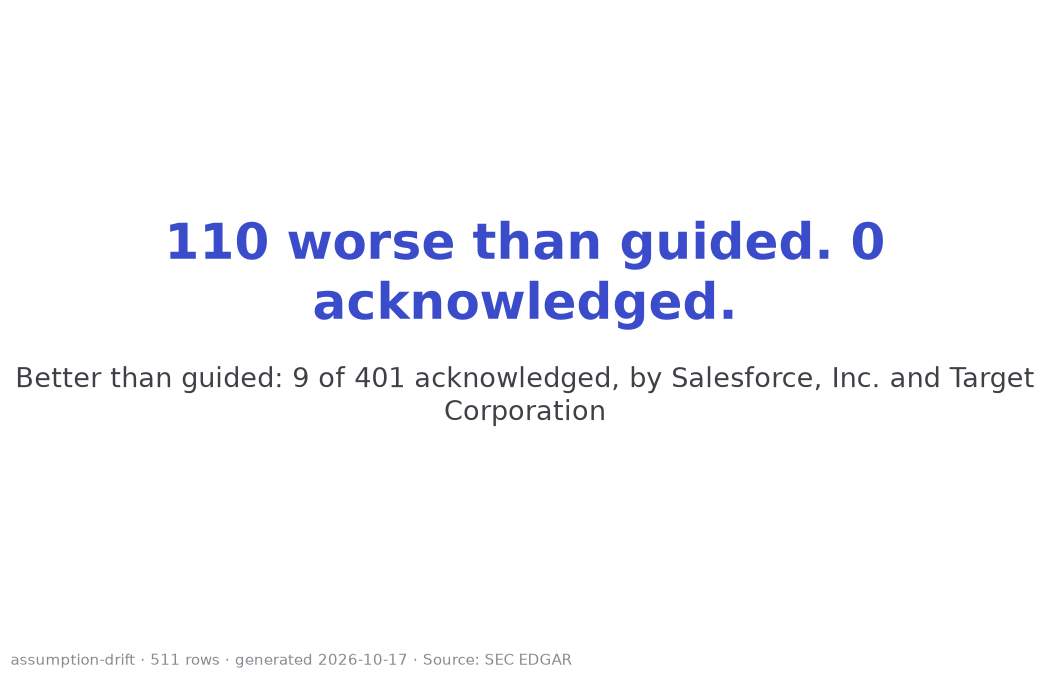
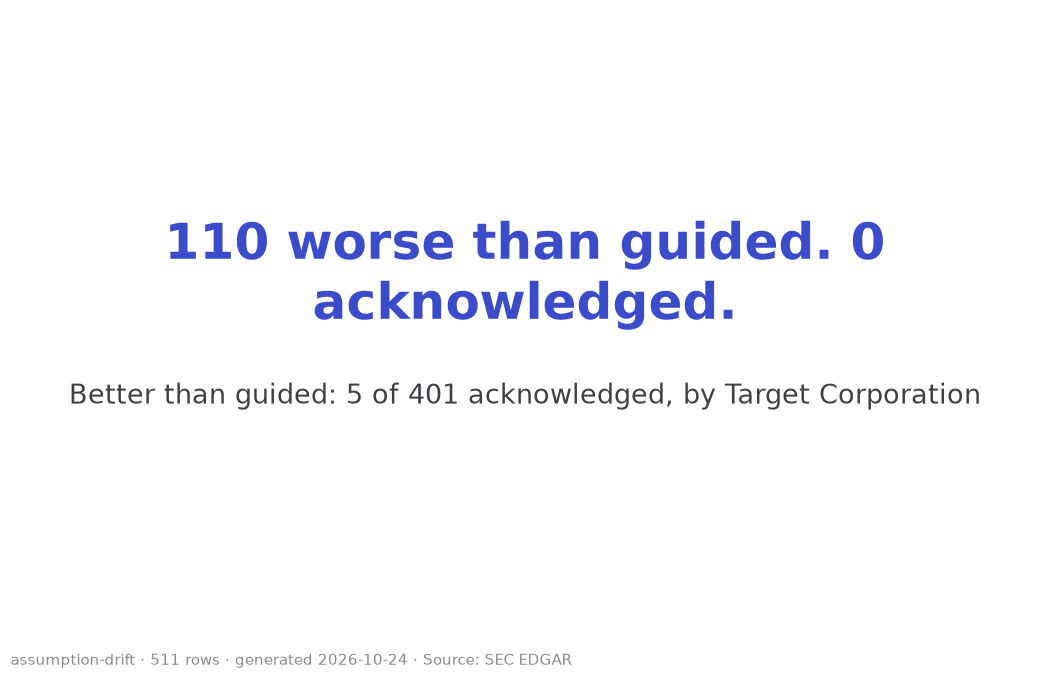
Acknowledgements: four false matches cleared after hand review (3 Target FY2023 rows carried the Q4 sentence, 1 Salesforce generic); 5 remain, all Target FY2023 EPS; period and figure guard on acknowledgement match; BACKLOG 28

Changed region(s): [[0.0, 0.5289, 0.9752, 0.6222], [0.3657, 0.9644, 0.3962, 0.9956]]

diff --git a/space/index.html b/space/index.html
@@ -110,7 +110,7 @@ html.js section.company{display:block}
 <p class="label-top">assumption-drift</p>
 <h1>110 worse than guided. 0 acknowledged.</h1>
 <p class="magnitude">Of the 110 worse-side misses, 79 are more than 1% beyond the guide and 52 more than 5%. None was acknowledged.</p>
-<p class="dateline">1,309 guidance statements, 15 companies, filings Jan 2019 to Oct 2026, generated 2026-10-17</p>
+<p class="dateline">1,309 guidance statements, 15 companies, filings Jan 2019 to Oct 2026, generated 2026-10-24</p>
 <p class="dateline">Filings processed through 2026-10-15. 10 rows pending review.</p>
 <p class="dateline">Links open in a new tab. The page runs inside a Hugging Face frame, so a link that seems not to respond has opened behind it.</p>
 </header>
@@ -468,7 +468,7 @@ html.js section.company{display:block}
 <circle class="dot" cx="221.0" cy="317.2" r="4" fill="#3B4CCA" fill-opacity="0.7" data-ticker="TGT" data-metric="EPS non-GAAP" data-period="Q1 FY2023" data-guided="$1.5 to $1.9" data-reported="$2.05" data-days="78" data-ack="" data-card="row-01GTAN3800BCH7A67TPM65N0AQ"/>
 <circle class="dot" cx="221.0" cy="301.4" r="4" fill="#3B4CCA" fill-opacity="0.7" data-ticker="TGT" data-metric="operating margin GAAP" data-period="Q1 FY2023" data-guided="4% to 5%" data-reported="5.2%" data-days="78" data-ack="" data-card="row-01GTAN3800J11PV4X345TVJTA4"/>
 <circle class="dot" cx="221.0" cy="296.6" r="4" fill="#3B4CCA" fill-opacity="0.7" data-ticker="TGT" data-metric="EPS GAAP" data-period="Q1 FY2023" data-guided="$1.5 to $1.9" data-reported="$2.05" data-days="78" data-ack="" data-card="row-01GTAN3800PVN1BBVG283J98ZE"/>
-<circle class="dot" cx="487.6" cy="86.4" r="4" fill="#3f3f46" fill-opacity="0.7" data-ticker="TGT" data-metric="EPS GAAP" data-period="FY2023" data-guided="$7.75 to $8.75" data-reported="$8.94" data-days="371" data-ack="2024-03-05" data-card="row-01GTAN3800YY9212M3NM9A2TEP"/>
+<circle class="dot" cx="487.6" cy="294.4" r="4" fill="#3B4CCA" fill-opacity="0.7" data-ticker="TGT" data-metric="EPS GAAP" data-period="FY2023" data-guided="$7.75 to $8.75" data-reported="$8.94" data-days="371" data-ack="" data-card="row-01GTAN3800YY9212M3NM9A2TEP"/>
 <circle class="dot" cx="232.8" cy="316.5" r="4" fill="#3B4CCA" fill-opacity="0.7" data-ticker="CRM" data-metric="revenue" data-period="Q1 FY2024" data-guided="$8.16 billion to $8.18 billion" data-reported="$8.25 billion" data-days="91" data-ack="" data-card="row-01GTD7FZ0029M044NQ2DXJZ005"/>
 <circle class="dot" cx="481.2" cy="299.1" r="4" fill="#3B4CCA" fill-opacity="0.7" data-ticker="CRM" data-metric="EPS GAAP" data-period="FY2024" data-guided="$2.59 to $2.61" data-reported="$4.2" data-days="364" data-ack="" data-card="row-01GTD7FZ007Q5G8VV35E3K2614"/>
 <circle class="dot" cx="481.2" cy="300.6" r="4" fill="#3B4CCA" fill-opacity="0.7" data-ticker="CRM" data-metric="EPS non-GAAP" data-period="FY2024" data-guided="$7.12 to $7.14" data-reported="$8.22" data-days="364" data-ack="" data-card="row-01GTD7FZ009VGKS87HD9AM0KEC"/>
@@ -484,7 +484,7 @@ html.js section.company{display:block}
 <circle class="dot" cx="232.8" cy="318.2" r="4" fill="#3B4CCA" fill-opacity="0.7" data-ticker="QCOM" data-metric="EPS GAAP" data-period="Q3 FY2023" data-guided="$1.24 to $1.44" data-reported="$1.6" data-days="91" data-ack="" data-card="row-01GZFEH800VZZBVXFJWXPPAA3F"/>
 <circle class="dot" cx="232.8" cy="108.2" r="4" fill="#3f3f46" fill-opacity="0.7" data-ticker="TGT" data-metric="EPS GAAP" data-period="Q2 FY2023" data-guided="$1.3 to $1.7" data-reported="$1.8" data-days="91" data-ack="2023-08-16" data-card="row-01H0KG3A0009YTW3NZ8Q4YZRWP"/>
 <circle class="dot" cx="416.6" cy="319.1" r="4" fill="#3B4CCA" fill-opacity="0.7" data-ticker="TGT" data-metric="EPS non-GAAP" data-period="FY2023" data-guided="$7.75 to $8.75" data-reported="$8.94" data-days="293" data-ack="" data-card="row-01H0KG3A00EHYV77FQ30KXJNF2"/>
-<circle class="dot" cx="416.6" cy="107.8" r="4" fill="#3f3f46" fill-opacity="0.7" data-ticker="TGT" data-metric="EPS GAAP" data-period="FY2023" data-guided="$7.75 to $8.75" data-reported="$8.94" data-days="293" data-ack="2024-03-05" data-card="row-01H0KG3A00YGF3VA13QSV7GPK9"/>
+<circle class="dot" cx="416.6" cy="315.8" r="4" fill="#3B4CCA" fill-opacity="0.7" data-ticker="TGT" data-metric="EPS GAAP" data-period="FY2023" data-guided="$7.75 to $8.75" data-reported="$8.94" data-days="293" data-ack="" data-card="row-01H0KG3A00YGF3VA13QSV7GPK9"/>
 <circle class="dot" cx="232.8" cy="315.7" r="4" fill="#3B4CCA" fill-opacity="0.7" data-ticker="NVDA" data-metric="gross margin non-GAAP" data-period="Q2 FY2024" data-guided="69.5% to 70.5%" data-reported="71.2%" data-days="91" data-ack="" data-card="row-01H15GWB00A9Y3NVJSCK9SXQMM"/>
 <circle class="dot" cx="232.8" cy="318.3" r="4" fill="#3B4CCA" fill-opacity="0.7" data-ticker="NVDA" data-metric="operating expenses GAAP" data-period="Q2 FY2024" data-guided="$2.71 billion" data-reported="$2.662 billion" data-days="91" data-ack="" data-card="row-01H15GWB00CZ9M02HBPAWPF922"/>
 <circle class="dot" cx="232.8" cy="309.0" r="4" fill="#3B4CCA" fill-opacity="0.7" data-ticker="NVDA" data-metric="gross margin GAAP" data-period="Q2 FY2024" data-guided="68.1% to 69.1%" data-reported="70.1%" data-days="91" data-ack="" data-card="row-01H15GWB00KRY7XR13BGZYS3PX"/>
@@ -503,7 +503,7 @@ html.js section.company{display:block}
 <circle class="dot" cx="315.6" cy="305.7" r="4" fill="#3B4CCA" fill-opacity="0.7" data-ticker="UNH" data-metric="EPS non-GAAP" data-period="FY2023" data-guided="$24.7 to $25" data-reported="$25.12" data-days="182" data-ack="" data-card="row-01H58V5000VPC3SP4CAQKN1V25"/>
 <circle class="dot" cx="226.4" cy="304.2" r="4" fill="#3B4CCA" fill-opacity="0.7" data-ticker="AMZN" data-metric="operating income" data-period="Q3 FY2023" data-guided="$5.5 billion to $8.5 billion" data-reported="$11.2 billion" data-days="84" data-ack="" data-card="row-01H6WB3C002SVNHRX7PGDKAJ27"/>
 <circle class="dot" cx="232.8" cy="106.1" r="4" fill="#3f3f46" fill-opacity="0.7" data-ticker="TGT" data-metric="EPS GAAP" data-period="Q3 FY2023" data-guided="$1.2 to $1.6" data-reported="$2.1" data-days="91" data-ack="2023-11-15" data-card="row-01H7XT8Q007EFX1VH8R0G8AVMG"/>
-<circle class="dot" cx="333.8" cy="95.0" r="4" fill="#3f3f46" fill-opacity="0.7" data-ticker="TGT" data-metric="EPS GAAP" data-period="FY2023" data-guided="$7 to $8" data-reported="$8.94" data-days="202" data-ack="2024-03-05" data-card="row-01H7XT8Q007QZ4NYXCMMX2RJH6"/>
+<circle class="dot" cx="333.8" cy="303.0" r="4" fill="#3B4CCA" fill-opacity="0.7" data-ticker="TGT" data-metric="EPS GAAP" data-period="FY2023" data-guided="$7 to $8" data-reported="$8.94" data-days="202" data-ack="" data-card="row-01H7XT8Q007QZ4NYXCMMX2RJH6"/>
 <circle class="dot" cx="333.8" cy="297.8" r="4" fill="#3B4CCA" fill-opacity="0.7" data-ticker="TGT" data-metric="EPS non-GAAP" data-period="FY2023" data-guided="$7 to $8" data-reported="$8.94" data-days="202" data-ack="" data-card="row-01H7XT8Q00FHVJ4DDP84YZMC5H"/>
 <circle class="dot" cx="232.8" cy="83.0" r="4" fill="#3f3f46" fill-opacity="0.7" data-ticker="TGT" data-metric="EPS non-GAAP" data-period="Q3 FY2023" data-guided="$1.2 to $1.6" data-reported="$2.1" data-days="91" data-ack="2023-11-15" data-card="row-01H7XT8Q00N4BGFGJPD7H8V80T"/>
 <circle class="dot" cx="320.2" cy="293.6" r="4" fill="#3B4CCA" fill-opacity="0.7" data-ticker="WMT" data-metric="EPS non-GAAP" data-period="FY2024" data-guided="$6.36 to $6.46" data-reported="$6.65" data-days="187" data-ack="" data-card="row-01H80CNE0070NFBVSCDV7RDMB3"/>
@@ -578,7 +578,7 @@ html.js section.company{display:block}
 <circle class="dot" cx="232.8" cy="289.0" r="4" fill="#3B4CCA" fill-opacity="0.7" data-ticker="TGT" data-metric="EPS GAAP" data-period="Q3 FY2024" data-guided="$2.1 to $2.4" data-reported="$1.85" data-days="91" data-ack="" data-card="row-01J5S3QC00B006N4BNCY4KTXWH"/>
 <circle class="dot" cx="327.4" cy="290.0" r="4" fill="#3B4CCA" fill-opacity="0.7" data-ticker="TGT" data-metric="EPS GAAP" data-period="FY2024" data-guided="$9 to $9.7" data-reported="$8.86" data-days="195" data-ack="" data-card="row-01J5S3QC00J62QW6KRHKC0G3JC"/>
 <circle class="dot" cx="226.4" cy="311.7" r="4" fill="#3B4CCA" fill-opacity="0.7" data-ticker="NVDA" data-metric="operating expenses GAAP" data-period="Q3 FY2025" data-guided="$4.3 billion" data-reported="$4.287 billion" data-days="84" data-ack="" data-card="row-01J6B4GD0013AT2FD44D75VPVT"/>
-<circle class="dot" cx="315.6" cy="198.7" r="4" fill="#3f3f46" fill-opacity="0.7" data-ticker="CRM" data-metric="operating margin non-GAAP" data-period="FY2025" data-guided="32.8%" data-reported="33%" data-days="182" data-ack="2025-09-03" data-card="row-01J6B4GD00CA57Z8K8ECNKF4TE"/>
+<circle class="dot" cx="315.6" cy="302.7" r="4" fill="#3B4CCA" fill-opacity="0.7" data-ticker="CRM" data-metric="operating margin non-GAAP" data-period="FY2025" data-guided="32.8%" data-reported="33%" data-days="182" data-ack="" data-card="row-01J6B4GD00CA57Z8K8ECNKF4TE"/>
 <circle class="dot" cx="238.3" cy="296.4" r="4" fill="#3B4CCA" fill-opacity="0.7" data-ticker="CRM" data-metric="tax rate" data-period="Q3 FY2025" data-guided="24%" data-reported="24.5%" data-days="97" data-ack="" data-card="row-01J6B4GD00FZH5WQ9TJQZQ58J3"/>
 <circle class="dot" cx="238.3" cy="288.4" r="4" fill="#3B4CCA" fill-opacity="0.7" data-ticker="CRM" data-metric="revenue" data-period="Q3 FY2025" data-guided="$9.31 billion to $9.36 billion" data-reported="$9.44 billion" data-days="97" data-ack="" data-card="row-01J6B4GD00KRVM6SSQ5ZQ0D0EK"/>
 <circle class="dot" cx="315.6" cy="302.7" r="4" fill="#3B4CCA" fill-opacity="0.7" data-ticker="CRM" data-metric="operating margin GAAP" data-period="FY2025" data-guided="19.7%" data-reported="19%" data-days="182" data-ack="" data-card="row-01J6B4GD00TPYZHDAW0Q3VRXS3"/>
@@ -664,7 +664,7 @@ html.js section.company{display:block}
 <circle class="dot" cx="239.2" cy="313.3" r="4" fill="#3B4CCA" fill-opacity="0.7" data-ticker="NVDA" data-metric="operating expenses GAAP" data-period="Q2 FY2027" data-guided="$8.5 billion" data-reported="$8.408 billion" data-days="98" data-ack="" data-card="row-01KS1AX700KAA228F7A70TWCKZ"/>
 <circle class="dot" cx="239.2" cy="308.7" r="4" fill="#3B4CCA" fill-opacity="0.7" data-ticker="NVDA" data-metric="operating expenses non-GAAP" data-period="Q2 FY2027" data-guided="$8.3 billion" data-reported="$8.232 billion" data-days="98" data-ack="" data-card="row-01KS1AX700MXZ5H6EJPGA3BRNR"/>
 <circle class="dot" cx="232.8" cy="296.3" r="4" fill="#3B4CCA" fill-opacity="0.7" data-ticker="AVGO" data-metric="revenue" data-period="Q3 FY2026" data-guided="$29.4 billion" data-reported="$29.6 billion" data-days="91" data-ack="" data-card="row-01KT5CF900QYMTDF9JRYX5Y8PV"/>
-<text class="s" x="10" y="412" font-size="10" fill="#8a8a92">Assumption Drift · 511 missed rows · generated 2026-10-17 · Source: SEC EDGAR</text>
+<text class="s" x="10" y="412" font-size="10" fill="#8a8a92">Assumption Drift · 511 missed rows · generated 2026-10-24 · Source: SEC EDGAR</text>
 </svg>
 <div id="tip" hidden></div>
 <figcaption>Each mark is a missed row: days from guidance to a checkable outcome, against days to acknowledgement.</figcaption>
@@ -4003,7 +4003,7 @@ $9.71 - $9.76 billion $40.5 - $40.9 billion</blockquote>
 <p class="label">Outcome, 2025-02-26</p>
 <blockquote>FY25 GAAP operating margin of 19.0% and non-GAAP operating margin of 33.0%</blockquote>
 <p class="links"><a href="https://www.sec.gov/Archives/edgar/data/1108524/000110852424000020/crm-q2fy25xexhibit991.htm" target="_blank" rel="noopener">Guidance filing on EDGAR</a> <span class="sep">/</span> <a href="https://www.sec.gov/Archives/edgar/data/1108524/000110852425000002/crm-q4fy25xexhibit991.htm" target="_blank" rel="noopener">Outcome filing on EDGAR</a></p>
-<p class="ack">Acknowledged 2025-09-03: &ldquo;“We exceeded all our financial targets while achieving our tenth consecutive quarter of operating margin expansion, delivering strong returns and maximizing value for our customers and shareholders.”&rdquo;</p>
+<p class="ack">No later filing acknowledged the gap.</p>
 </article>
 <article class="card better" id="row-01HZ0TB000S3RECXM3DTXTBFNV">
 <div class="top">
@@ -5812,7 +5812,7 @@ $0.60 - $0.61</blockquote>
 <p class="label">Outcome, 2024-03-05</p>
 <blockquote>Full-year GAAP and Adjusted EPS of $8.94 were both nearly 50 percent higher than in 2022.</blockquote>
 <p class="links"><a href="https://www.sec.gov/Archives/edgar/data/27419/000002741923000032/a2023q2ex-99.htm" target="_blank" rel="noopener">Guidance filing on EDGAR</a> <span class="sep">/</span> <a href="https://www.sec.gov/Archives/edgar/data/27419/000002741924000008/a2023q4ex-99.htm" target="_blank" rel="noopener">Outcome filing on EDGAR</a></p>
-<p class="ack">Acknowledged 2024-03-05: &ldquo;GAAP and Adjusted EPS1 of $2.98 was 57.6 percent higher than last year, and well-above the high end of the expected range of $1.90 to $2.60.&rdquo;</p>
+<p class="ack">No later filing acknowledged the gap.</p>
 </article>
 <article class="card better" id="row-01H7XT8Q007EFX1VH8R0G8AVMG">
 <div class="top">
@@ -5836,7 +5836,7 @@ $0.60 - $0.61</blockquote>
 <p class="label">Outcome, 2024-03-05</p>
 <blockquote>GAAP and Adjusted EPS were $8.94 for full-year 2023, compared with $5.98 in GAAP EPS and $6.02 in Adjusted EPS in the prior year.</blockquote>
 <p class="links"><a href="https://www.sec.gov/Archives/edgar/data/27419/000002741923000023/a2023q1ex-99.htm" target="_blank" rel="noopener">Guidance filing on EDGAR</a> <span class="sep">/</span> <a href="https://www.sec.gov/Archives/edgar/data/27419/000002741924000008/a2023q4ex-99.htm" target="_blank" rel="noopener">Outcome filing on EDGAR</a></p>
-<p class="ack">Acknowledged 2024-03-05: &ldquo;GAAP and Adjusted EPS1 of $2.98 was 57.6 percent higher than last year, and well-above the high end of the expected range of $1.90 to $2.60.&rdquo;</p>
+<p class="ack">No later filing acknowledged the gap.</p>
 </article>
 <article class="card better" id="row-01H0KG3A00EHYV77FQ30KXJNF2">
 <div class="top">
@@ -5872,7 +5872,7 @@ $0.60 - $0.61</blockquote>
 <p class="label">Outcome, 2024-03-05</p>
 <blockquote>GAAP and Adjusted EPS were $8.94 for full-year 2023, compared with $5.98 in GAAP EPS and $6.02 in Adjusted EPS in the prior year.</blockquote>
 <p class="links"><a href="https://www.sec.gov/Archives/edgar/data/27419/000002741923000010/a2022q4ex-99.htm" target="_blank" rel="noopener">Guidance filing on EDGAR</a> <span class="sep">/</span> <a href="https://www.sec.gov/Archives/edgar/data/27419/000002741924000008/a2023q4ex-99.htm" target="_blank" rel="noopener">Outcome filing on EDGAR</a></p>
-<p class="ack">Acknowledged 2024-03-05: &ldquo;GAAP and Adjusted EPS1 of $2.98 was 57.6 percent higher than last year, and well-above the high end of the expected range of $1.90 to $2.60.&rdquo;</p>
+<p class="ack">No later filing acknowledged the gap.</p>
 </article>
 <article class="card better" id="row-01GTAN3800PVN1BBVG283J98ZE">
 <div class="top">

diff --git a/tests/test_outcomes.py b/tests/test_outcomes.py
@@ -514,15 +514,20 @@ def test_words_for_the_other_side_do_not_leak_into_a_search(world) -> None:
     assert not any("exceeded expectations" in s for s in sentences)
 
 
-def test_an_acknowledgement_line_no_longer_needs_a_number_of_its_own(world) -> None:
-    """The number requirement (needed for an outcome line, which must state a value) cut real acknowledgement
-    candidates from 101 to 13 across the pilot data: most acknowledgement sentences narrate the gap without
-    repeating the figure, which is already given in the request's own guidance line."""
-    add_filing(world, "0021", "2024-05-01", "8-K", ["Fourth quarter revenue was well below the low end of our guidance range for the period."])
+def test_an_acknowledgement_line_needs_a_figure_but_not_the_reported_one(world) -> None:
+    """Backlog 28. The search still does not need the reported value (most acknowledgement sentences narrate the gap and the
+    value is in the request's own guidance line), but the sentence must print some figure: the reported value or the guided
+    range. "well below the low end of our guidance range" with no number at all is generic and is not offered."""
+    add_filing(world, "0021", "2024-05-01", "8-K", [
+        "Fourth quarter revenue was well below the low end of our guidance range for the period.",
+        "Fourth quarter revenue was well below the low end of our $5.0 billion to $6.0 billion guidance range.",
+    ])
     d = draft()
     out = {"reported_value": 4.8, "reported_at": "2024-05-01"}
     _, index = outcomes.build_ack_requests({COMPANY.cik: [d]}, {"D1": out}, {COMPANY.cik: store()}, OCFG, NUMBER, today=TODAY)
-    assert any("well below the low end" in l.sentence for l in index["k-D1"][1])
+    sentences = [l.sentence for l in index["k-D1"][1]]
+    assert "Fourth quarter revenue was well below the low end of our $5.0 billion to $6.0 billion guidance range." in sentences
+    assert not any("for the period" in s for s in sentences)
 
 
 # --- main, end to end ------------------------------------------------------
@@ -1036,9 +1041,9 @@ def test_a_sentence_about_another_period_is_not_an_acknowledgement(ack_world, se
 @pytest.mark.parametrize("sentence", [
     "Fourth quarter revenue of $4.8 billion was below our guidance.",
     "Fourth quarter fiscal 2024 revenue of $4.8 billion was below our guidance.",
-    "Q4 FY24 revenue was below our guidance.",
+    "Q4 FY24 revenue of $4.8 billion was below our guidance.",
     # names the row's year as well as another: the row's own period is in it
-    "Fourth quarter fiscal 2024 revenue was below our guidance, against fiscal 2023.",
+    "Fourth quarter fiscal 2024 revenue of $4.8 billion was below our guidance, against fiscal 2023.",
 ])
 def test_a_sentence_naming_the_rows_own_period_is_kept(ack_world, sentence) -> None:
     assert ack_sentences(ack_world, sentence) == [sentence]
@@ -1048,6 +1053,69 @@ def test_a_fiscal_year_row_needs_a_full_year_sentence_for_its_year(ack_world) ->
     d = draft(period="FY2024")
     kept = "Full year fiscal 2024 revenue of $4.8 billion was below our guidance."
     assert ack_sentences(ack_world, kept, "Full year fiscal 2023 revenue was below our guidance.", "Fourth quarter revenue was below our guidance.", d=d) == [kept]
+
+
+# --- backlog 28: a quarter's sentence is not a year's acknowledgement, and generic praise names no guide ------
+#
+# Four published acknowledgements were false: three Target full-year FY2023 rows carried the fourth-quarter sentence "EPS of $2.98 ...
+# well-above the high end of the expected range of $1.90 to $2.60", and Salesforce's FY2025 operating margin carried "We exceeded all
+# our financial targets". The five Target rows that stayed (Q2, Q3 and Q4 FY2023, GAAP and non-GAAP) must still be offered.
+
+Q4_SENTENCE = "GAAP and Adjusted EPS1 of $2.98 was 57.6 percent higher than last year, and well-above the high end of the expected range of $1.90 to $2.60."
+Q2_SENTENCE = "Second quarter GAAP and Adjusted EPS1 of $1.80 was more than 4 times higher than a year ago and above the high end of the Company's guidance range."
+CRM_SENTENCE = "We exceeded all our financial targets while achieving our tenth consecutive quarter of operating margin expansion."
+TGT_OUT = {"reported_value": 8.94, "reported_at": "2024-05-01"}
+
+
+def eps_draft(period, low, high):
+    return draft(metric="EPS GAAP", unit="USD per share", period=period, low=low, high=high)
+
+
+def test_a_fourth_quarter_sentence_printing_the_quarters_range_is_not_a_full_year_rows_acknowledgement(ack_world) -> None:
+    d = eps_draft("FY2024", 7.75, 8.75)
+    assert ack_sentences(ack_world, Q4_SENTENCE, d=d, out=TGT_OUT) == []
+    d = eps_draft("FY2024", 7.0, 8.0)
+    assert ack_sentences(ack_world, Q4_SENTENCE, d=d, out=TGT_OUT) == []
+
+
+def test_the_same_sentence_attaches_to_the_quarter_whose_range_it_prints(ack_world) -> None:
+    d = eps_draft("Q4 FY2024", 1.9, 2.6)
+    assert ack_sentences(ack_world, Q4_SENTENCE, d=d, out={"reported_value": 2.98, "reported_at": "2024-05-01"}) == [Q4_SENTENCE]
+
+
+def test_a_quarter_sentence_naming_its_quarter_and_a_figure_attaches(ack_world) -> None:
+    d = eps_draft("Q2 FY2024", 1.3, 1.7)
+    assert ack_sentences(ack_world, Q2_SENTENCE, d=d, out={"reported_value": 1.8, "reported_at": "2024-05-01"}) == [Q2_SENTENCE]
+    assert ack_sentences(ack_world, Q2_SENTENCE, d=eps_draft("Q3 FY2024", 1.2, 1.6), out={"reported_value": 1.8, "reported_at": "2024-05-01"}) == []
+
+
+def test_a_generic_sentence_naming_no_figure_is_not_an_acknowledgement(ack_world) -> None:
+    d = draft(metric="operating margin non-GAAP", unit="percent", period="FY2024", low=32.8, high=32.8)
+    assert ack_sentences(ack_world, CRM_SENTENCE, d=d, out={"reported_value": 33.0, "reported_at": "2024-05-01"}) == []
+
+
+@pytest.mark.parametrize("sentence, low, high, expected", [
+    ("EPS beat the expected range of $1.90 to $2.60.", 1.9, 2.6, True),
+    ("EPS beat the expected range of $1.90 to $2.60.", 7.75, 8.75, False),
+    ("EPS beat the expected range of $1.90 to $2.60.", 1.9, 2.7, False),      # one end only
+    ("Margin beat the 33% target.", 33.0, 33.0, True),                     # a point guide is one figure
+    ("EPS1 beat the guidance.", 1.0, 1.0, False),                          # a footnote digit is not a figure
+    ("Revenue was above guidance.", 1.9, 2.6, False),
+])
+def test_names_guided_range(sentence, low, high, expected) -> None:
+    assert outcomes.names_guided_range(sentence, low, high) is expected
+
+
+@pytest.mark.parametrize("sentence, period, guide, expected", [
+    (Q4_SENTENCE, (4, 2023), (1.9, 2.6), True),         # no period named: only the printed range ties it, and it is this row's
+    (Q4_SENTENCE, (None, 2023), (7.75, 8.75), False),   # the same sentence under a full-year row of other guidance
+    (Q2_SENTENCE, (2, 2023), (1.3, 1.7), True),
+    (Q2_SENTENCE, (4, 2023), (1.9, 2.6), False),
+    (CRM_SENTENCE, (None, 2025), (32.8, 32.8), False),
+    ("Fourth quarter EPS of $2.98 beat the expected range of $1.90 to $2.60.", (None, 2023), (1.9, 2.6), False),   # names another period
+])
+def test_ack_sentence_ok(sentence, period, guide, expected) -> None:
+    assert outcomes.ack_sentence_ok(sentence, period, *guide) is expected
 
 
 def test_names_period_by_the_outcome_matchers_quarter_and_year_tests() -> None:

diff --git a/pipeline/04_outcomes.py b/pipeline/04_outcomes.py
@@ -439,6 +439,43 @@ def _units_note(doc: DocText, line_index: int, lookback: int) -> str | None:
     return None
 
 
+_FIGURE = re.compile(r"(?<![A-Za-z\d.,])\d[\d,]*(?:\.\d+)?")
+_NAMES_A_PERIOD = re.compile(
+    "|".join(_quarter_regex(q).pattern for q in (1, 2, 3, 4))
+    + r"|\bfull[- ]year\b|\bfor the year\b|\bfiscal (?:year )?\d{2,4}\b|\bFY ?\d{2,4}\b", re.IGNORECASE)
+
+
+def _figures(sentence: str) -> list[float]:
+    out = []
+    for m in _FIGURE.finditer(sentence):
+        try:
+            out.append(float(m.group(0).replace(",", "")))
+        except ValueError:
+            pass
+    return out
+
+
+def names_guided_range(sentence: str, low: float | None, high: float | None) -> bool:
+    """Does the sentence print the guided range itself: both ends of it, or the one figure a point guide or a
+    one-sided guide gave? "the expected range of $1.90 to $2.60" names a guide of 1.90 to 2.60 and no other."""
+    wanted = [v for v in dict.fromkeys((low, high)) if v is not None]
+    seen = _figures(sentence)
+    return bool(wanted) and all(any(abs(f - v) < 1e-9 for f in seen) for v in wanted)
+
+
+def ack_sentence_ok(sentence: str, period: tuple[int | None, int], low: float | None, high: float | None) -> bool:
+    """May this sentence be an acknowledgement for the row? It must name a figure (the reported value, or the guided
+    range): "we exceeded all our financial targets" names none and is generic praise. And it must be about the row's
+    period: one that names this quarter or year is; one that names another is not; one that names no period at all
+    (a headline sentence that leans on the release's title for it) is only if it prints the row's own guided range,
+    so a fourth-quarter sentence that prints a fourth-quarter range cannot attach to a full-year row."""
+    if not _figures(sentence):
+        return False
+    if names_period(sentence, period):
+        return True
+    return not _NAMES_A_PERIOD.search(sentence) and names_guided_range(sentence, low, high)
+
+
 # What a full-year result line says about its period: "fiscal 2022", "full year", "for the year", "for fiscal ...".
 _FULL_YEAR_LINE = re.compile(r"\bfiscal (?:year )?20\d\d\b|\bfull[- ]year\b|\bfor the year\b|\bfor fiscal\b", re.IGNORECASE)
 
@@ -456,6 +493,7 @@ def select_lines(
     require_number: bool = True,
     reference: re.Pattern[str] | None = None,
     require_period: bool = False,
+    guided: tuple[float | None, float | None] | None = None,
     reject: Callable[[DocText, int, str], bool] | None = None,
 ) -> list[Line]:
     """Lines in these releases that name the metric next to a number (and `extra`, if given). Best first, then in
@@ -463,8 +501,9 @@ def select_lines(
     just narrates the gap ("below our guidance") with the value itself in a sentence nearby, so the
     acknowledgement search turns it off. The acknowledgement search also asks, of the sentence that holds the
     direction word, that it hold a `reference` to what was guided and (`require_period`) that it name this
-    row's period: without the first it describes results and does not admit a gap, and without the second it
-    is about some other quarter or year. `reject(doc, char_start, sentence)` drops a sentence before it is scored."""
+    row's period (`ack_sentence_ok`, when `guided` is given: it also needs a figure, and a sentence that names no period
+    must print the guided range): without the first it describes results and does not admit a gap, and without the
+    second it is about some other quarter or year. `reject(doc, char_start, sentence)` drops a sentence before it is scored."""
     lowered = metric.lower()  # canonical names are mixed case: "gross margin non-GAAP"
     wants_non_gaap = "non-gaap" in lowered
     wants_gaap = "gaap" in lowered and not wants_non_gaap
@@ -491,7 +530,8 @@ def select_lines(
                 continue
             if reference is not None and not reference.search(sentence):
                 continue
-            if require_period and (period is None or not names_period(sentence, period)):
+            if require_period and (period is None or not (
+                    ack_sentence_ok(sentence, period, *guided) if guided is not None else names_period(sentence, period))):
                 continue
             section = _section_label(doc, li, int(cfg["section_lookback_lines"]))
             tag = f"{section or ''} {sentence}".lower()
@@ -922,7 +962,8 @@ def build_ack_requests(
             # No number is required here: the line that admits the gap often just narrates it ("below our
             # guidance") with the value itself already given in the user message, or in a sentence just before.
             lines = select_lines(store, metas, matcher, phrase_patterns[(side, direction)], a["metric"], parse_period(a["target_period"]),
-                                  cfg, number, require_number=False, reference=reference, require_period=True)
+                                  cfg, number, require_number=False, reference=reference, require_period=True,
+                                  guided=(a["target_low"], a["target_high"]))
             if not lines:
                 continue
             side_words = "above the high end of" if side == "above" else "below the low end of"

diff --git a/BACKLOG.md b/BACKLOG.md
@@ -619,3 +619,34 @@ already build); `--live` still writes the tracked paths; the printed diff names 
 `test_main_dry_run_writes_everything_but_does_not_upload` is rewritten to look in the dry-run folder.
 
 **Cost.** None at run time. About 60 lines in `06_publish.py` and the tests above. `data/_work/` is already the scratch location, so no new ignore rule.
+
+## 28. Period mismatch and generic sentences passed the acknowledgement match (fixed 2026-10-24)
+
+Found by the reviewer reading the nine published acknowledgements (`data/_work/ack_rows.md`). Four of the nine were false.
+
+- **The rows.** Three Target FY2023 full-year EPS rows (`01GTAN3800YY9212M3NM9A2TEP`, `01H0KG3A00YGF3VA13QSV7GPK9`,
+  `01H7XT8Q007QZ4NYXCMMX2RJH6`; guided 7.75 to 8.75 or 7 to 8, reported 8.94) carried the fourth-quarter sentence "GAAP and Adjusted
+  EPS1 of $2.98 was 57.6 percent higher than last year, and well-above the high end of the expected range of $1.90 to $2.60." That range
+  is the Q4 guide, not the year's. Salesforce FY2025 non-GAAP operating margin (`01J6B4GD00CA57Z8K8ECNKF4TE`) carried "We exceeded all our
+  financial targets while achieving our tenth consecutive quarter of operating margin expansion...", which names no figure and no metric guide.
+- **Cause.** The acknowledgement match let a sentence through on its direction word and a guidance reference alone: it did not tie the
+  sentence's period to the row's period (a quarter's sentence on a full-year row), and it did not require the sentence to name any figure
+  (generic praise). The period test added under backlog 4 (`names_period`) already rejects all four sentences today, so these four
+  were attached before it (or by a path that bypassed it; the cause of the attach itself was not traced). That test was also too
+  strict the other way: a headline sentence that leans on the release title for its quarter ("EPS1 of $2.98 ... expected range of $1.90 to
+  $2.60") names no period and so was rejected for the two Target Q4 FY2023 rows that are correct. A replay showed 3 of the 5 surviving rows offered, not 5.
+- **Fix.** `04_outcomes.ack_sentence_ok`, used by `select_lines` through the new `guided` argument that `build_ack_requests` passes:
+  a candidate sentence is offered only if (1) it names a figure (the reported value or the guided range; a footnote digit glued to a
+  word, as in "EPS1", is not one), and (2) it names the row's own period, or names no period at all and prints the row's guided range
+  (`names_guided_range`: both ends, or the one figure of a point or one-sided guide). A sentence that names another quarter or year
+  never passes. So the Q4 sentence attaches to the Q4 rows (it prints 1.90 and 2.60) and not to a full-year row guided 7.75 to 8.75.
+- **Side effect.** A number-less narration ("well below the low end of our guidance range for the period") is no longer offered; the
+  old test that asked for it (`test_an_acknowledgement_line_no_longer_needs_a_number_of_its_own`) is rewritten. The rule is stricter than
+  the one it replaces, so expect fewer candidates on the next full 04 ack run.
+- **Cleanup.** The four acknowledgements were cleared from the review CSVs (outcomes and statuses left intact, a note appended to each
+  row). Their lines in `data/outcomes/0000027419.jsonl` and `0001108524.jsonl` already held `acknowledgement: null`, so nothing was
+  there to remove. An unpublished Target row, `01H0KG3A00PBRP8MPDHY4J2NZ9` (approved false, note "false alarm, the excerpt matches"), still
+  carries an acknowledgement in its review CSV and was not part of this change.
+- **Tests.** `test_outcomes.py`: the three Target full-year cases and the Salesforce case do not attach; the Q4, Q2 and Q3 sentences do;
+  `names_guided_range` and `ack_sentence_ok` table tests. Replay of the stored sentences against the cached filings: the five survivors
+  are all offered, the four cleared are not (`data/_work/replay_ack.py`, candidate selection only; the model's confirmation was not re-run).

diff --git a/card/README.md b/card/README.md
@@ -52,10 +52,10 @@ Acknowledged means a later 8-K, 10-K or 10-Q states the gap in so many words, na
 guidance the result fell on: for example "below", "short of", "did not meet", "higher than expected",
 "exceeded" or "above the high end".
 
-As of 2026-10-17, the release holds **1,309 rows**: 223 met, 511 missed, 560 unresolved, 15 withdrawn.
+As of 2026-10-24, the release holds **1,309 rows**: 223 met, 511 missed, 560 unresolved, 15 withdrawn.
 Of the misses, 401 were better than guided and 110 worse than guided; median days from the guidance to the
 filing that made it checkable was 93.0, and
-98% of misses were never acknowledged in a later filing.
+99% of misses were never acknowledged in a later filing.
 
 By company:
 
@@ -71,8 +71,8 @@ By company:
 | Microsoft Corporation | 5 | 0 | 0 | 0 | 5 | n/a |
 | NVIDIA Corporation | 212 | 43 | 94 | 0 | 75 | 100% |
 | QUALCOMM Incorporated | 85 | 33 | 28 | 0 | 24 | 100% |
-| Salesforce, Inc. | 316 | 16 | 170 | 0 | 130 | 99% |
-| Target Corporation | 87 | 28 | 43 | 2 | 14 | 81% |
+| Salesforce, Inc. | 316 | 16 | 170 | 0 | 130 | 100% |
+| Target Corporation | 87 | 28 | 43 | 2 | 14 | 88% |
 | The Home Depot, Inc. | 76 | 4 | 15 | 0 | 57 | 100% |
 | UnitedHealth Group Incorporated | 70 | 7 | 43 | 8 | 12 | 100% |
 | Walmart Inc. | 31 | 5 | 13 | 3 | 10 | 100% |
@@ -137,7 +137,7 @@ one the pipeline used.
 
 If you use this dataset, please cite it as:
 
-    Navneet (2026). assumption-drift. https://huggingface.co/datasets/Nav772/assumption-drift. Accessed 2026-10-17.
+    Navneet (2026). assumption-drift. https://huggingface.co/datasets/Nav772/assumption-drift. Accessed 2026-10-24.
 
 ## Licence
 

diff --git a/space/README.md b/space/README.md
@@ -13,7 +13,7 @@ Every numeric guidance statement in the SEC filings of 15 large US companies sin
 
 | Statements | Resolved | Met | Missed | Worse | Better | Never acknowledged | Acknowledged |
 |---:|---:|---:|---:|---:|---:|---:|---:|
-| 1,309 | 734 | 223 | 511 | 110 | 401 | 502 | 9 |
+| 1,309 | 734 | 223 | 511 | 110 | 401 | 506 | 5 |
 
 - Dataset: https://huggingface.co/datasets/Nav772/assumption-drift
 - GitHub: https://github.com/Algo-nav/assumption-drift
